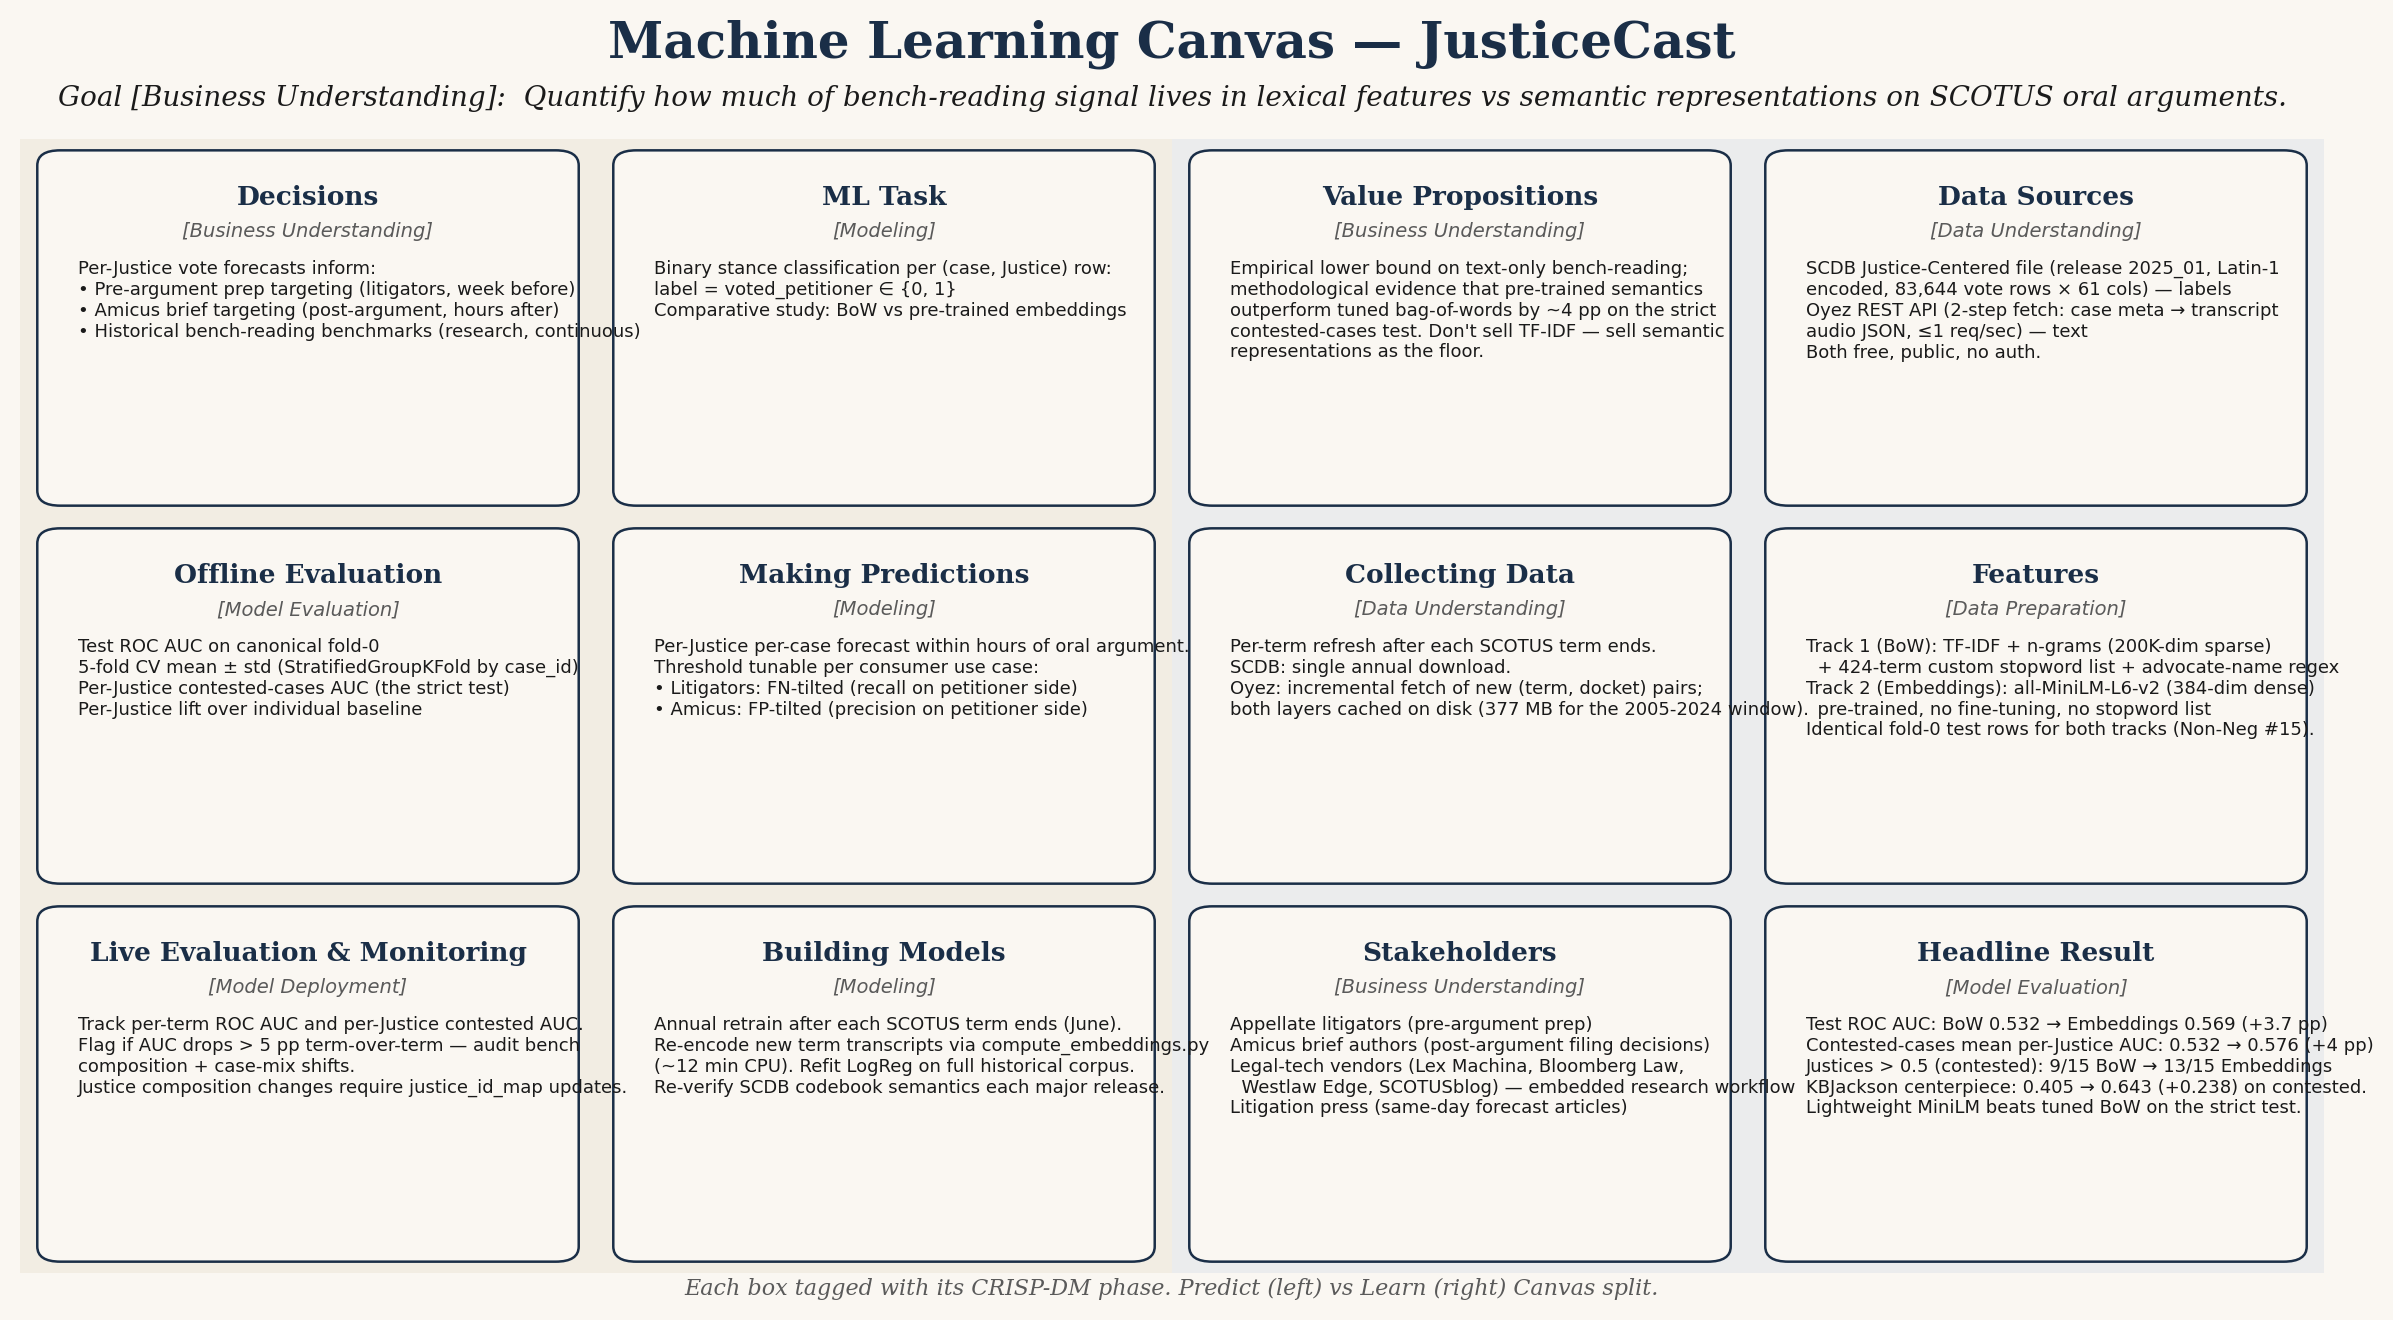
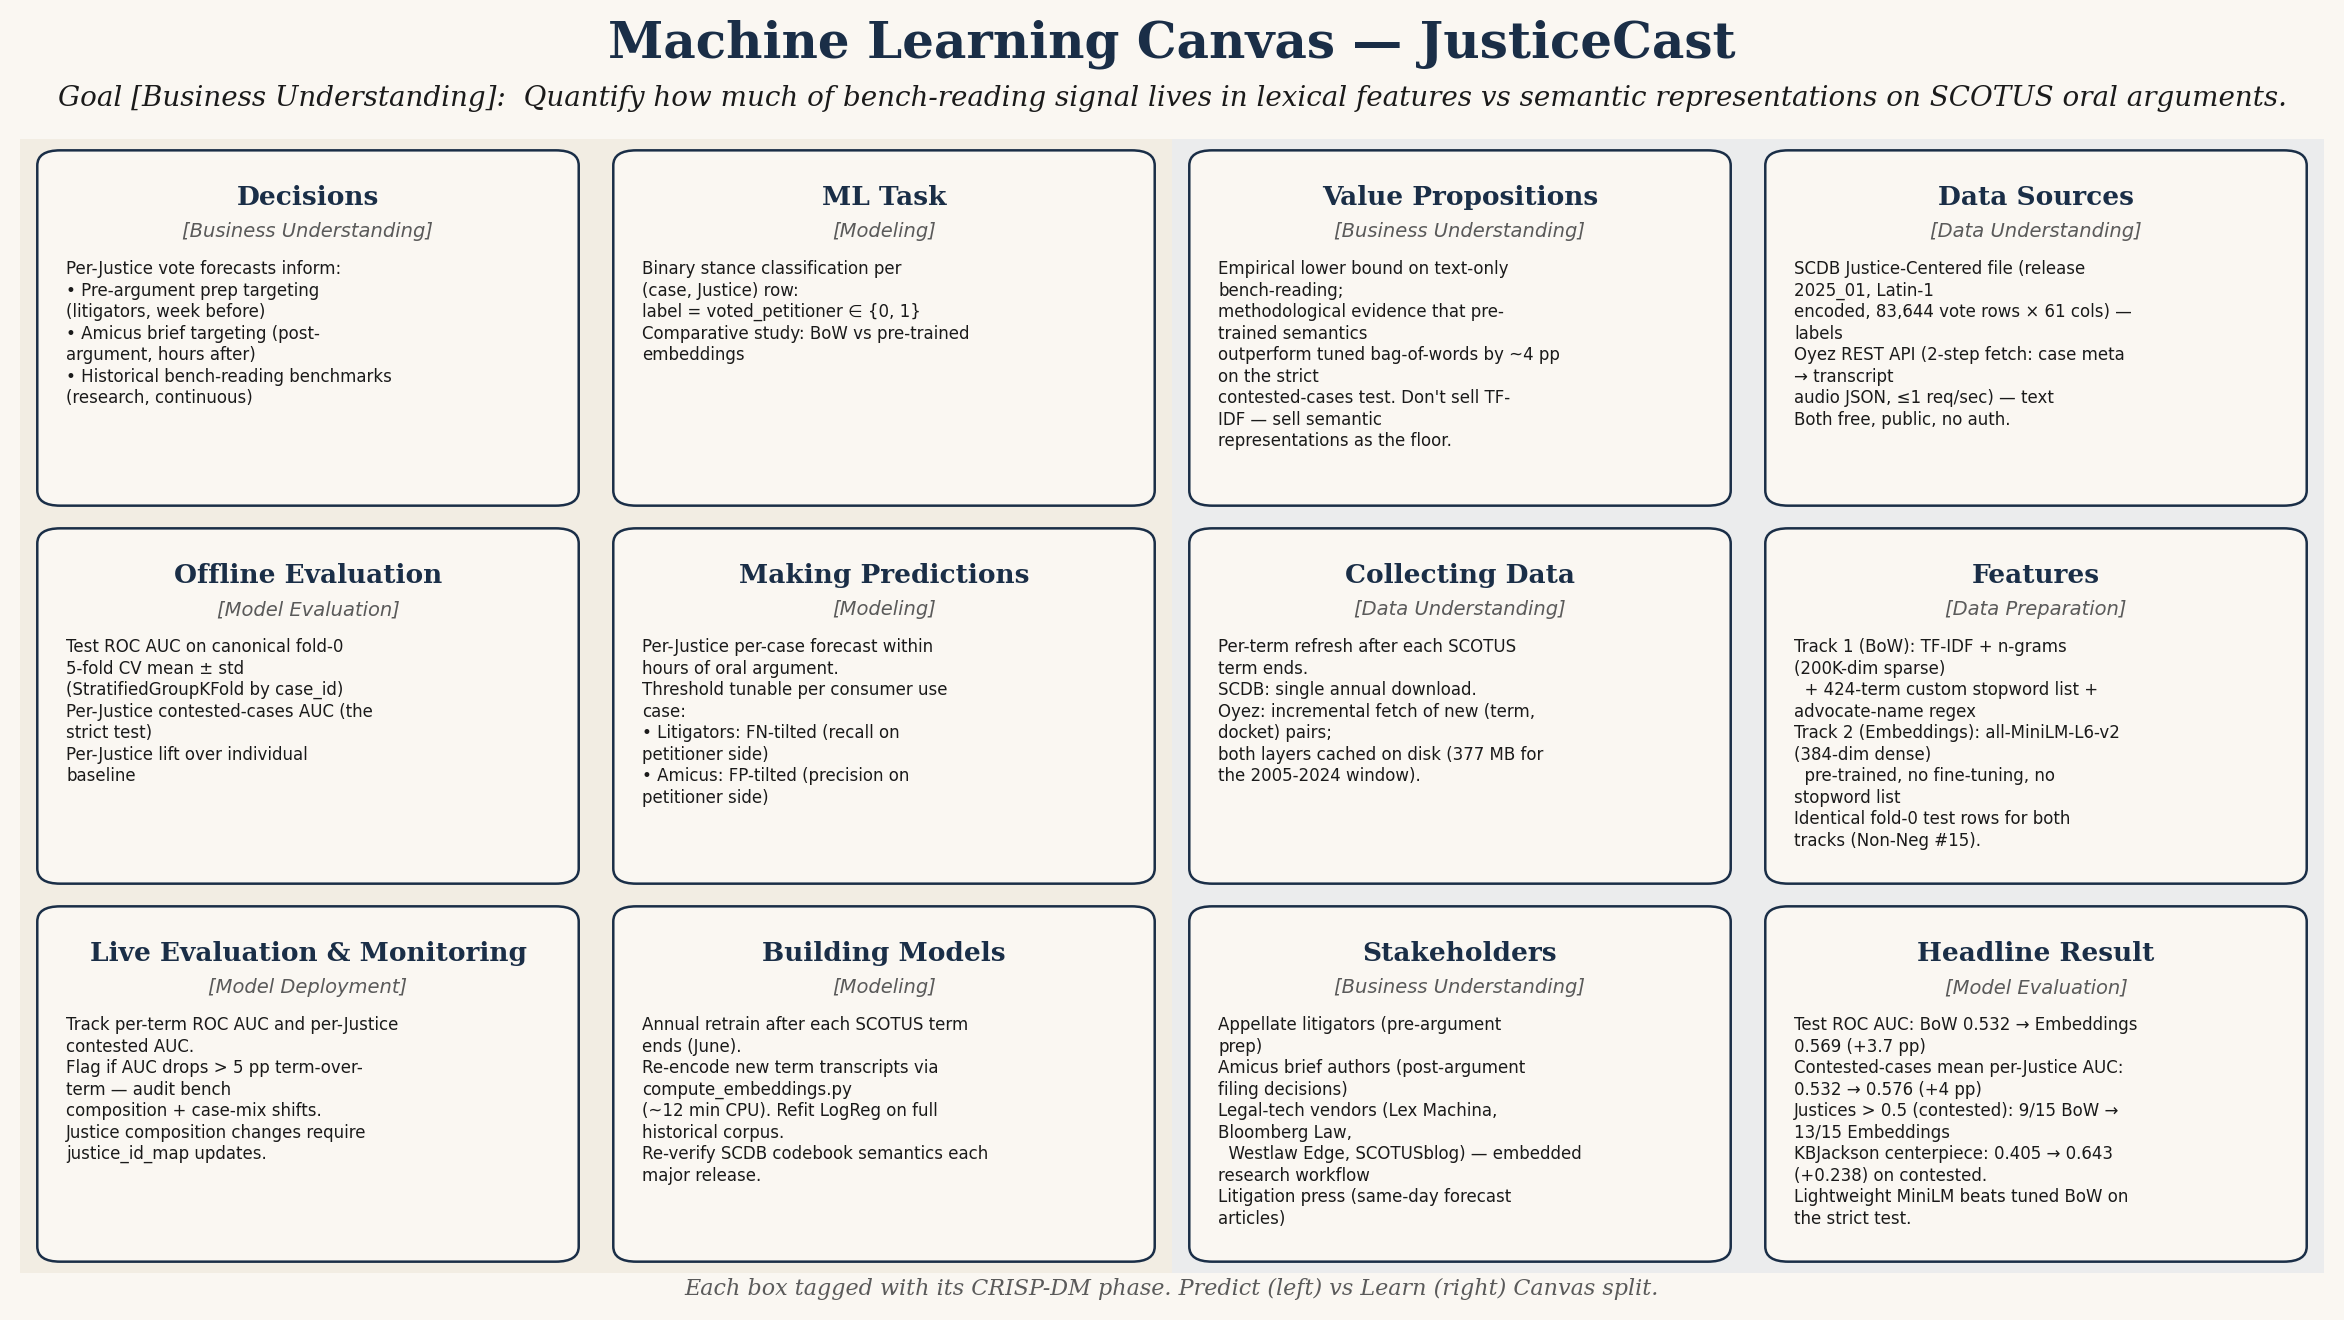
ML Canvas: wrap body text to stop overflow into neighboring boxes
User caught the body text in each ML Canvas box was rendering past the
box's right edge into the next column (e.g. 'Pre-argument prep targeting
(litigators, week before)' bled out of the Decisions box; 'outperform tuned
bag-of-words by ~4 pp on the strict' bled out of Value Propositions).

Root cause: matplotlib's `ax.text()` doesn't auto-wrap. The body strings
in BOXES contain explicit `\n` line breaks for bullet structure, but the
individual lines (~50-58 chars) exceeded the ~50-char-at-fontsize-6.5
width of each box.

Fix: small `_wrap_body(text, width)` helper applied in both renderers.
Splits on the explicit `\n` first to preserve bullet structure, then
runs `textwrap.fill(..., break_long_words=False)` per chunk so individual
lines wrap if too long but short lines stay one-line. Body fontsize
dropped from 6.5 to 6.0 with linespacing=1.25 for a small extra margin
of safety.

Applied identically to:
- src/build_ml_canvas.py    → reports/ml_canvas.pdf  (course deliverable)
- src/build_deck_charts.py::render_ml_canvas_summary
                            → reports/deck_assets/ml_canvas_summary.png
                              (deck Slide 5 asset)

Both regenerate cleanly. 14 deck-chart pytest tests still passing. No
content changes — same 12 boxes with same text, just wrapped.

Changed region(s): [[0.0311, 0.0, 0.9966, 0.9939], [0.218, 0.9318, 0.2803, 0.9629]]

diff --git a/src/build_ml_canvas.py b/src/build_ml_canvas.py
@@ -11,6 +11,7 @@ Final reports & presentations — ML Canvas v0.4 PDF.
 """
 from __future__ import annotations
 
+import textwrap
 from pathlib import Path
 
 import matplotlib.pyplot as plt
@@ -101,6 +102,17 @@ BOXES = [
 ]
 
 
+def _wrap_body(text: str, width: int = 42) -> str:
+    """Wrap each existing line to ~`width` chars, preserving explicit \\n breaks
+    (so bullet structures stay intact)."""
+    return "\n".join(
+        textwrap.fill(line, width=width, break_long_words=False,
+                      replace_whitespace=False)
+        if line.strip() else ""
+        for line in text.split("\n")
+    )
+
+
 def _draw_box(ax, x, y, w, h, title, phase_tag, body):
     """Draw a single labeled box."""
     pad = 0.04
@@ -117,10 +129,10 @@ def _draw_box(ax, x, y, w, h, title, phase_tag, body):
     ax.text(x + 0.5 * w, y + h - 0.21,
             f"[{phase_tag}]", ha="center", va="top",
             fontsize=6.5, fontstyle="italic", color="#5a6b85")
-    # Body
-    ax.text(x + 0.10, y + h - 0.32,
-            body, ha="left", va="top",
-            fontsize=6.5, color="#1f2a44", wrap=True)
+    # Body — pre-wrapped to fit within (w − 2*0.10) at fontsize=6.0
+    ax.text(x + 0.08, y + h - 0.32, _wrap_body(body),
+            ha="left", va="top",
+            fontsize=6.0, color="#1f2a44", linespacing=1.25)
 
 
 def render() -> None:

diff --git a/src/build_deck_charts.py b/src/build_deck_charts.py
@@ -14,6 +14,7 @@ from __future__ import annotations
 
 import logging
 import shutil
+import textwrap
 from pathlib import Path
 
 import matplotlib.pyplot as plt
@@ -497,6 +498,17 @@ def render_ml_canvas_summary():
                                    facecolor=color, edgecolor="none",
                                    alpha=0.45))
 
+    # Wrap body text to fit the box width (~38 chars at fontsize=6.5
+    # in a 0.85-axes-unit-wide box at FIGSIZE_FULL). Preserve explicit
+    # line breaks so bullet lists stay structured.
+    def _wrap_body(text: str, width: int = 38) -> str:
+        return "\n".join(
+            textwrap.fill(line, width=width, break_long_words=False,
+                          replace_whitespace=False)
+            if line.strip() else ""
+            for line in text.split("\n")
+        )
+
     for col, row, title, phase, body in BOXES:
         x, y = col * 1.0, (2 - row) * 1.0
         ax.add_patch(FancyBboxPatch((x + 0.05, y + 0.05), 0.90, 0.90,
@@ -508,8 +520,9 @@ def render_ml_canvas_summary():
                 fontfamily=FONT_SERIF)
         ax.text(x + 0.5, y + 0.78, f"[{phase}]", ha="center", va="top",
                 fontsize=7, fontstyle="italic", color=C_TEXT_GREY)
-        ax.text(x + 0.10, y + 0.68, body, ha="left", va="top",
-                fontsize=6.5, color=C_TEXT)
+        ax.text(x + 0.08, y + 0.68, _wrap_body(body),
+                ha="left", va="top",
+                fontsize=6.0, color=C_TEXT, linespacing=1.25)
 
     fig.text(0.5, 0.02,
              "Each box tagged with its CRISP-DM phase. Predict (left) vs Learn (right) "